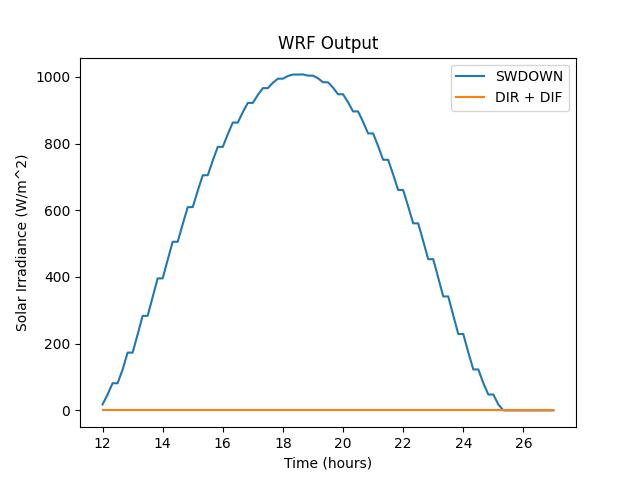
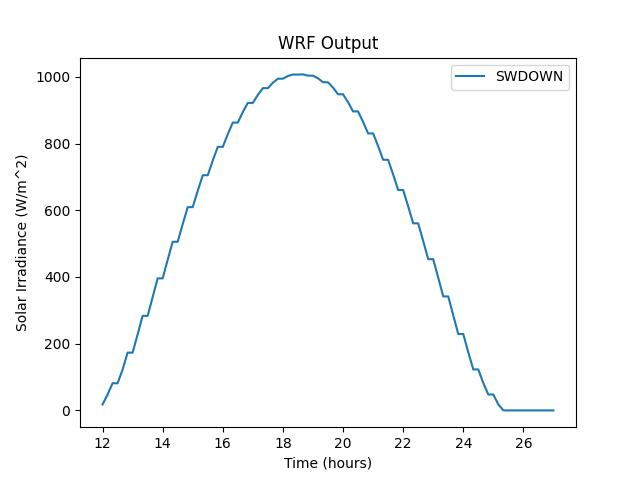
correction to model prediction

Changed region(s): [[0.1562, 0.8438, 0.875, 0.875], [0.6875, 0.1875, 0.875, 0.2188]]

diff --git a/ultimate_WRF_script.py b/ultimate_WRF_script.py
@@ -119,7 +119,7 @@ def show_run(name, output_dir):
     run = np.load(output_dir + name + '.npy')
     plt.clf()
     plt.plot(run[:,0], run[:,1], label = "SWDOWN")
-    plt.plot(run[:,0], run[:,4], label = "DIR + DIF")
+    # plt.plot(run[:,0], run[:,4], label = "DIR + DIF")
     plt.xlabel('Time (hours)')  # x-axis label
     plt.ylabel('Solar Irradiance (W/m^2)')  # y-axis label
     plt.title('WRF Output')  # title
@@ -166,7 +166,7 @@ if __name__ == '__main__':
     # Process the WRF Data
     # copy_files(SRC_PATH, DEST_PATH)
     # process(DEST_PATH, OUTPUT_DIR, 'base_model_pred')
-    # show_run('base_model_pred', OUTPUT_DIR)
+    show_run('base_model_pred', OUTPUT_DIR)
 
     # Plot Ground Truth and Model Predictions
-    plot_GT_and_model(GTDIR, OUTPUT_DIR, 'base_model_pred')
+    # plot_GT_and_model(GTDIR, OUTPUT_DIR, 'base_model_pred')
